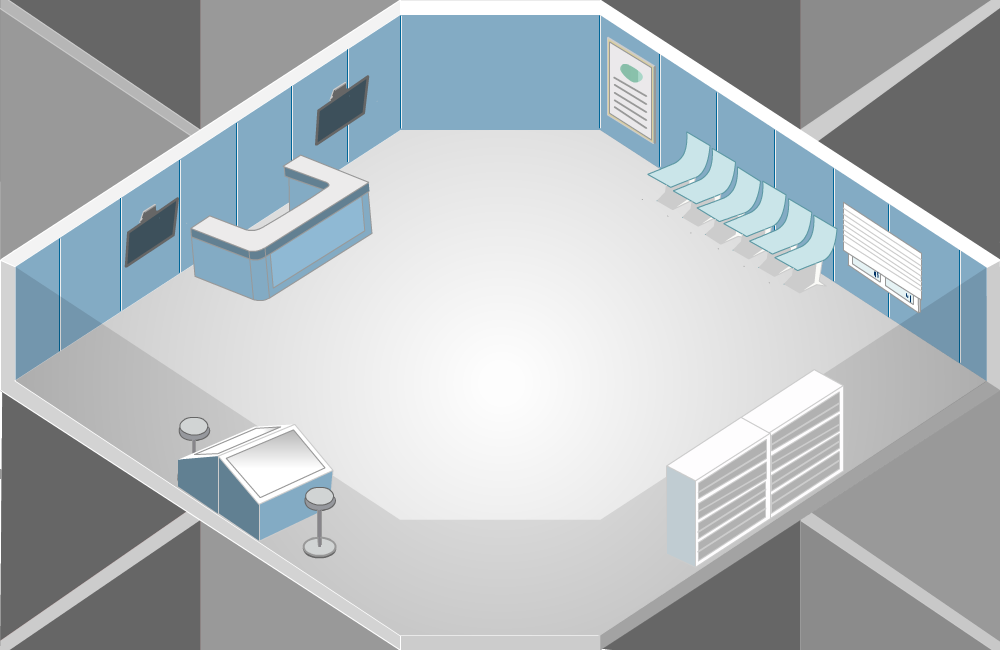
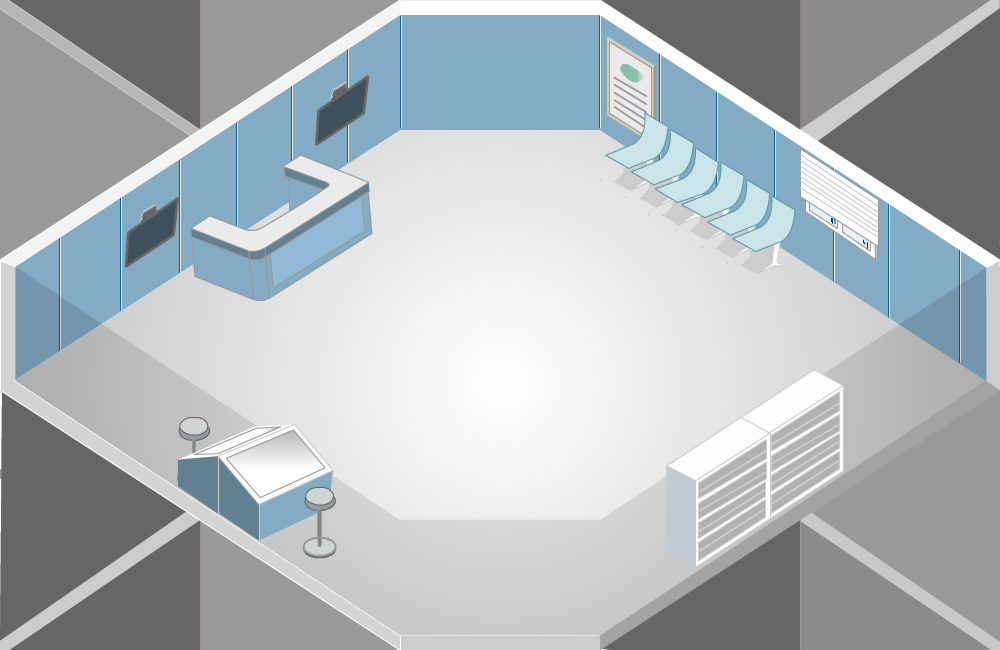
fixed some mazeMiniMap issues, changed background rooms - some pictures, some doors

Changed region(s): [[0.62, 0.1846, 0.93, 0.4923]]

diff --git a/js/game.js b/js/game.js
@@ -176,7 +176,7 @@ App.prototype.start = function () {
     function create() {
         // init other states
         megaMAP = game.cache.json.get('megaMAP');
-
+        this.cameras.main.setBackgroundColor('#333')
         gameState = buildGameState(userIUN, megaMAP.sessionId);
         gameState.user = userIUN;
         initMap = megaMAP.initMAP;
@@ -198,8 +198,6 @@ App.prototype.start = function () {
         //    }
         //  });
 
-        // console.log("megaMAP: "+megaMAP);
-        // console.log("roomsMAP: "+roomsMAP);
         showMazeGfx(megaMAP.doorsMAP, "mazeWDrsRmsMap");
 
         cursors = this.input.keyboard.createCursorKeys();
@@ -254,6 +252,7 @@ App.prototype.start = function () {
         gameState.isFinished = 1;
         saveState('UPDATE', gameState);
         //show finScr
+        //Phaser.disable;
         showFinalScreen();
     }
 
@@ -471,8 +470,7 @@ App.prototype.start = function () {
             return Math.floor(Math.random() * max) + min;
         }
 
-        var doorsIndex = 0; //we already have doorsMAP[][]
-        //roomsMAP = {'U': null, 'U': null,'U': null,'U': null, };
+        var doorsIndex = 0;
         roomsMAP = megaMAP.doorsMAP;
         megaMAP.doorsMAP.forEach((mapDoors, y) => {
                 mapDoors.forEach(function (mapDoor, x) {
@@ -610,25 +608,25 @@ App.prototype.start = function () {
         initPlayer(scene);
     }
 
-    function collectStar(player, star) {
-        star.disableBody(true, true);
-        //  Add and update the score
-        score += 10;
-        scoreText.setText('Score: ' + score);
-
-        if (stars.countActive(true) === 0) {
-            //  A new batch of stars to collect
-            stars.children.iterate(function (child) {
-                child.enableBody(true, child.x, 0, true, true);
-            });
-            var x = (player.x < 400) ? Phaser.Math.Between(400, 800) : Phaser.Math.Between(0, 400);
-            var bomb = bombs.create(x, 16, 'bomb');
-            bomb.setBounce(1);
-            bomb.setCollideWorldBounds(true);
-            bomb.setVelocity(Phaser.Math.Between(-200, 200), 20);
-            bomb.allowGravity = false;
-        }
-    }
+    // function collectStar(player, star) {
+    //     star.disableBody(true, true);
+    //     //  Add and update the score
+    //     score += 10;
+    //     scoreText.setText('Score: ' + score);
+    //
+    //     if (stars.countActive(true) === 0) {
+    //         //  A new batch of stars to collect
+    //         stars.children.iterate(function (child) {
+    //             child.enableBody(true, child.x, 0, true, true);
+    //         });
+    //         var x = (player.x < 400) ? Phaser.Math.Between(400, 800) : Phaser.Math.Between(0, 400);
+    //         var bomb = bombs.create(x, 16, 'bomb');
+    //         bomb.setBounce(1);
+    //         bomb.setCollideWorldBounds(true);
+    //         bomb.setVelocity(Phaser.Math.Between(-200, 200), 20);
+    //         bomb.allowGravity = false;
+    //     }
+    // }
 
     // function hitBomb (player, bomb)
     // {
@@ -644,21 +642,38 @@ App.prototype.start = function () {
         }
     }
 
+    function calcCoordOnMapPos(thisX,thisY) {
+        // player.x and player.y - its a player coordinates
+        var deltaX = Math.floor(thisX / 800);
+        var deltaY = Math.floor(thisY / 520);
+        player.mazeNewCoord = { mazeX: deltaX, mazeY: deltaY };
+        //required to id miniMap lcoation
+        if ((player.mazePrevCoord.mazeX != player.mazeNewCoord.mazeX)
+             || (player.mazePrevCoord.mazeY != player.mazeNewCoord.mazeY)) {
+               highlighMapPos(player.mazePrevCoord.mazeY,player.mazePrevCoord.mazeX,player.mazeNewCoord.mazeY,player.mazeNewCoord.mazeX,"magenta");
+               player.mazePrevCoord = { mazeX: deltaX, mazeY: deltaY };
+        }
+    }
+
     function playerNavigationHandler() {
 
         if (cursors.left.isDown) {
+           calcCoordOnMapPos(player.x,player.y);
             player.setVelocityX(-260);
             player.anims.play('left', true);
             playSound(soundStep);
         } else if (cursors.up.isDown) {
+           calcCoordOnMapPos(player.x,player.y);
             player.setVelocityY(-200);
             player.anims.play('up', true);
             playSound(soundStep);
         } else if (cursors.down.isDown) {
+           calcCoordOnMapPos(player.x,player.y);
             player.setVelocityY(200);
             player.anims.play('down', true);
             playSound(soundStep);
         } else if (cursors.right.isDown) {
+            calcCoordOnMapPos(player.x,player.y);
             player.setVelocityX(260);
             player.anims.play('right', true);
             playSound(soundStep);
@@ -666,7 +681,7 @@ App.prototype.start = function () {
         } else {
             stopPlayer();
         }
-
+        //console.log('player.mazeCoord: ', player.mazeCoord);
         // if (cursors.up.isDown && player.body.touching.down)
         // {
         //     player.setVelocityY(-330);
@@ -677,6 +692,9 @@ App.prototype.start = function () {
         player = scene.physics.add.sprite(400, 300, 'dude');
         //console.log('player', player);
         player.doorKeys = 0;
+        player.mazePrevCoord = { mazeX: 0,  mazeY: 0};  //required to id miniMap lcoation
+        player.mazeNewCoord = { mazeX: 0,  mazeY: 0}; //required to id miniMap lcoation
+         highlighMapPos(0,0,0,0,"magenta");
         //  Player physics properties. Give the little guy a slight bounce.
         player.setBounce(0.2);
         //player.setCollideWorldBounds(true);
@@ -876,7 +894,7 @@ App.prototype.start = function () {
     // }
 
     function submitFinalAnswer() {
-      Phaser.disable;
+
         //starsCount is global
         var respQ2 = document.getElementById("finQ2").value;
         var respQ2strWithOutQuotes= respQ2.replace(/['"]+/g, '')

diff --git a/js/miniMap.js b/js/miniMap.js
@@ -43,13 +43,13 @@
           //const mazeDiv = document.getElementById("mazeMap");
           const mazeDiv = document.getElementById(targetId);
           var maze = mazePassed;
-          mazeDiv.innerHTML = "Map: "+targetId+ "<br>"+makeTableHTMLGfx(maze);
+          mazeDiv.innerHTML = "Where are you now: "+ "<br>"+makeTableHTMLGfx(maze);
           // document.getElementById(mazePassed).className = "mazeContainerLeft";
             //mazeDiv.innerHTML = `${numCorrect} out of ${myQuestions.length}`;
         }
 
         function makeTableHTMLGfx(myArray) {
-            var result = "<pre><table id='table1'>";
+            var result = "<pre><table id='tableMiniMap'>";
             var resultStr ="";
             for(var i=0; i<myArray.length; i++) {
                 result += "<tr>";
@@ -62,7 +62,7 @@
                       resultStr += (key.toLowerCase() + value + '');
                     }
                     tabCellXId = 'y' + i + 'x' + j;
-                    result += '<td id="' + tabCellXId + '"><img src="./jpg/minimap/'+ resultStr +'.jpg" alt="[]" height="40" width="50"></td>';
+                    result += '<td class="miniMapTD" id="' + tabCellXId + '"><img src="./jpg/minimap/'+ resultStr +'.jpg" alt="[]" height="20" width="30"></td>';
                     resultStr = "";
                 }
                 result += '';

diff --git a/css/style.css b/css/style.css
@@ -6,6 +6,7 @@ body{
 	color: #333;
   font-weight: 300;
   text-align: center;
+	/* background-color: #333; */
   background-color: #f8f6f0;
 }
 h1{
@@ -157,6 +158,16 @@ table#table1 {
 	margin-left:auto;
 	margin-right:auto;
 	width:100px;
+}
+/* tableMiniMap */
+table#tableMiniMap {
+	text-align:center;
+	margin-left:auto;
+	margin-right:auto;
+	width:100px;
+}
+.miniMapTD {
+	border: 2px solid #333;
 }
 
 tr,td {

diff --git a/start.html b/start.html
@@ -2,11 +2,11 @@
 <html lang="en" >
 <head>
     <meta charset="UTF-8">
-    <title>Maze Game Start</title>
+    <title>Security Week Challenge Game</title>
     <link rel="stylesheet" href="./css/style.css">
 
 </head>
-<body>
+<body style="background-color: #f8f6f0;">
 <form action="./index.php" method="POST" >
     <!-- partial:index.partial.html -->
     <h1>Welcome to the new Quiz Game</h1>

diff --git a/index.html b/index.html
@@ -21,6 +21,7 @@
    <style type="text/css">
        body {
            margin: 0;
+           background-color: #f8f6f0;
        }
    </style>
 </head>

diff --git a/index.php b/index.php
@@ -5,13 +5,13 @@
   if (!empty($_POST['userId'])) {
      $userId = $_POST['userId'];
       } else {
-      $userId = 'JamesBrown';
+      $userId = 'JOHNDOE1';
     }
     //echo ($userId);
 ?>
 
    <meta charset="UTF-8" />
-   <title>Maze Pan with Phaser 3 Game</title>
+   <title>Security Week Challenge Game</title>
    <script src="//cdn.jsdelivr.net/npm/phaser@3.11.0/dist/phaser.js"></script>
    <link rel="stylesheet" href="css/style.css">
    <script src="js/jquery-3.4.1.min.js"></script>
@@ -22,7 +22,7 @@
        }
    </style>
 </head>
-<body>
+<body style="background-color: #333;">
    <div>
        <h1>Welcome &nbsp;
          <span id="userIUNBox"><?php echo $userId ?> </span> &nbsp;
